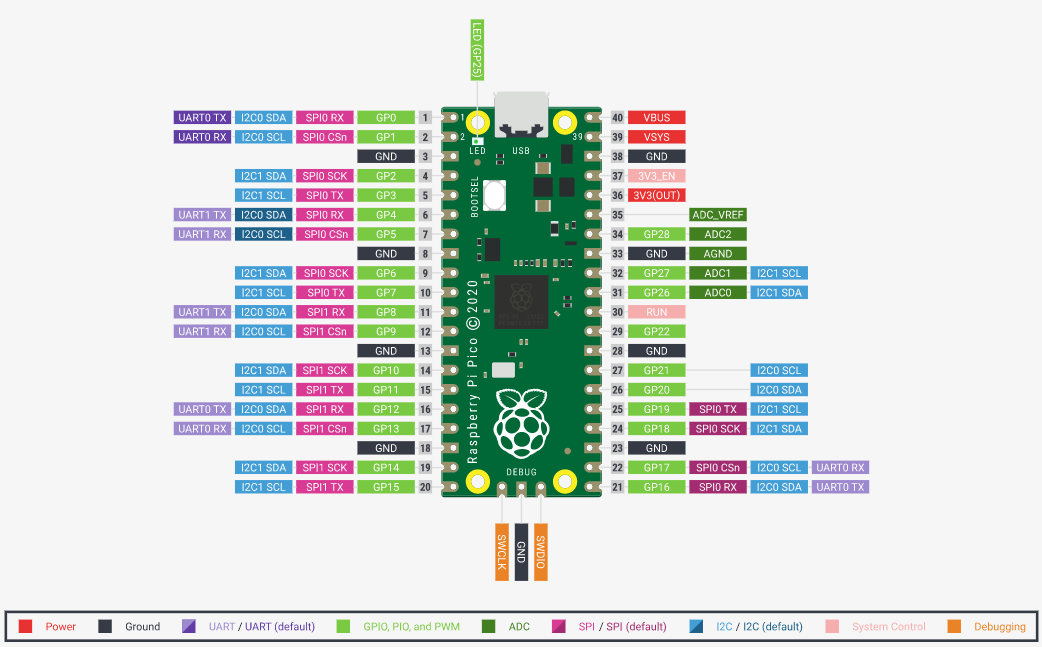
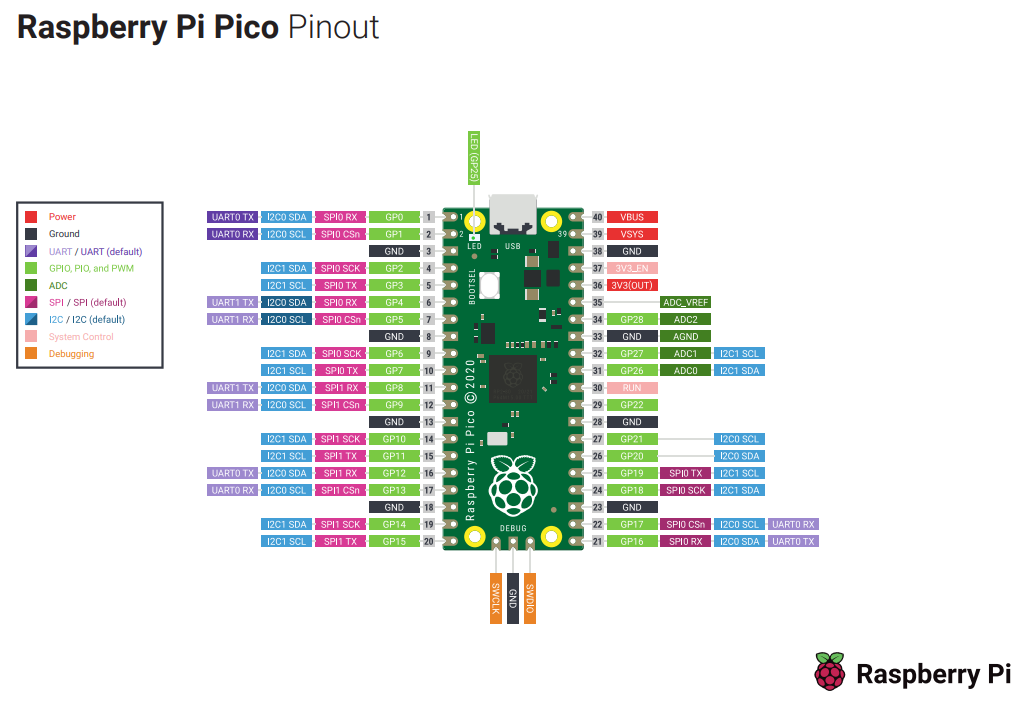
updated docs

diff --git a/README.md b/README.md
@@ -60,12 +60,18 @@ I provided a short BASICS summary, to explain briefly basic functionalities in P
 ## Main project
 ---
 
+<p>
+
 Main sketch:
 ![annoying plant circuit](./docs/main_v1.png)
 
 
 <br>
-TEXT TEXT TEXT TEXT TEXT TEXT TEXT TEXT TEXT TEXT TEXT TEXT TEXT TEXT TEXT TEXT TEXT TEXT TEXT TEXT TEXT TEXT TEXT TEXT TEXT TEXT TEXT TEXT TEXT TEXT TEXT TEXT TEXT TEXT TEXT TEXT TEXT TEXT TEXT TEXT TEXT TEXT TEXT TEXT TEXT TEXT TEXT TEXT TEXT TEXT TEXT TEXT TEXT TEXT TEXT TEXT TEXT TEXT TEXT TEXT TEXT TEXT TEXT TEXT TEXT TEXT TEXT TEXT TEXT
+Section here will follow soon! <br>
+Text text text text text text text text text text text text text text text text text text text text text text text text text text text text text text text text text text text text text text text text text text text text text text text text text text text text text text text text text text <br>
+
+ text text text text text text text text text text text text text text text text text text text text text text text text text text text text text text text text text text text text text text text text text text text text text text text text text text text text text text text text <br>
+
 
 <pre><code>
 code follow soon!
@@ -74,6 +80,10 @@ code follow soon!
 #bla 
 #blabla
 </code></pre>
+
+</p>
+
+<br>
 
 ---
 ## Basics
@@ -226,7 +236,7 @@ For more information look at the Datasheet provided below, but more Important is
 
 <br>
 
-[Pinout source](http://land-boards.com/blwiki/images/thumb/5/56/Raspberry-Pi-Pico-Pinout.jpg/730px-Raspberry-Pi-Pico-Pinout.jpg)
+[Pinout RaspberryPi Pico](./docs/pinoutpico.png)
 
 [Datasheet source](https://datasheets.raspberrypi.com/pico/pico-datasheet.pdf)
 
@@ -235,16 +245,19 @@ For more information look at the Datasheet provided below, but more Important is
 ---
 
 MicroPython is a efficient implementation of the Python 3 programming language it is optimised to run on microcontrollers, like our Pico. It includes a small subset of the Python standard librarys, but its more than sufficient to the needs of this project. <br>
-We will use Thonny to write our python code. Its a beginnerfriendly easy to use IDE perfectly fitting the needs to run all kinds of basic electronic projects.
-
-<br>
+We will use Thonny to write our python code. Its a beginnerfriendly easy to use IDE perfectly fitting the needs to run all kinds of basic electronic projects. <br>
+In order to not further stretch this tutorial you can find tons of good content online such as [this](https://www.programiz.com/python-programming/first-program) explaining the basics of programming in Python. If you not that familiar with programming simply take the codes provided, you may play around with it and learn by doing. <br>
 
 latest version of [Thonny](https://thonny.org/)
+
 <br>
+
 
 ---
 ## Lection 1: Installation & Blink sketch
 ---
+
+A nice and simple tutorial for the following can also be found [here](https://projects.raspberrypi.org/en/projects/getting-started-with-the-pico/0), every step is well written and illustrated. Take a look at it if something went wrong this might help out. <br>
 
 <p>
 
@@ -279,13 +292,14 @@ Now click on save, there should now apper a window asking you where u want to sa
 
 ![save on Pico](./docs/thonny3.png)
 
-When you hit the **Run** button the programm should start to execute on the Pico, if you want to stop the code hit the red **STOP**.
-
 ![Run sketch](./docs/thonny4.png)
+
+When you hit the **Run** button the programm should start to execute on the Pico, if you want to stop the code hit the red **STOP**. The Led should blink from now until you stop the code from executing. But the code wont execute as soon as the board is powered on in order to achieve that see bellow. <br>
 
 <br>
 
-A better way to implement something similar is shown in blink.py from the code folder. Load it or copy the code manually into your ThonnyIDE.
+**Additional:** <br>
+A better and maybee more 'pythonic' way to implement something similar is shown in blink.py from the code folder. Load it or copy the code manually into your ThonnyIDE.
 
 <pre><code>
 #import existing code
@@ -306,9 +320,13 @@ def tick(timer):
 tim.init(freq=1, mode=Timer.PERIODIC, callback=tick)
 </code></pre>
 
-When you save the code to your Pico this time give the file the name **main.py** , now the Pico will execute the code everytime it is powered on automatically. You should still be able to controll it by the **STOP** and **RUN** button while pluged to your PC.
+When you save the code to your Pico this time give the file the name **main.py** , now the Pico will execute the code everytime it is powered on automatically. You should still be able to controll it by the **STOP** and **RUN** button while pluged to your PC. <br>
+
+
 
 </p>
+
+<br>
 
 ---
 ## Lection 2: Flip flop
@@ -317,7 +335,7 @@ When you save the code to your Pico this time give the file the name **main.py**
 <p>
 
 **Theory:** <br>
-A Flip-flop is a bistable circuit saving a electronic state. It's fundamental circuit to store digital information. Even in games like Minecraft you can build such a thing pretty quickly. <br>
+A Flip-flop is a bistable circuit saving a electronic state. It's fundamental circuit to store digital information. In games like Minecraft you can build such a thing pretty quickly. <br>
 In the game you can build an inverter out of a redstone wire and a redstone torch attached to the block. When we connect two inverters this will form a Bistable state. Switching one of the buttons will cause the system to flip side and will stay that way untill the other button is pressed. <br>
 
 ![Minecraft FF](./docs/mc_ff.png)
@@ -331,8 +349,6 @@ In the picture below the raw scematic of a real world Flip-flop is shown. The ba
 **Circuit:** <br>
 Now we gona build a small circuit to test this functionality. Our real-world implementatin of the FF reacts when one of the inputs is pulled low. So we simulate the press of a button by simply attatching lose wires, which we can connect manually to simulate a button press. In order to flip we have to pick the correct wire, either pink or violet and hold it onto the ground rail (black). <br> This could theoretically also achieved with our Pico. When we connect those two wires to output pins and set them to HIGH state. As soon as we pull the correct one LOW the FF should switch and the other LED should light up. <br>
 
-**Important** If you play around and try to connect the circuit with the Pico keep in mind using the 3.3V Output. Otherwise you might damage your controller when applying 5V to its input pins. Therefor lookup the pinout diagram of the pico. Either from internet search or take the link from the above section on of the Pico. (It's the 5th pin on the same side as the VBUS Pin, VBUS is 1st)
-
 <br>
 
 **Tipps&Info:**
@@ -345,7 +361,7 @@ protection Resistor = Voltage drop over R / I on LED
 #Voltage drop over R can be obtained by subtracting forward drop Voltage of the Diode itself from source Voltage 
 </code></pre>
 
-2. **Diode orientation:** Orientation matters, because when you put them in wrong direction they will simply stop any flow of current try to pass through them. The Anode (+) side needs to be at the side with the higher potential (Voltage) and the Kathode on the GND side. Usually the **longer foot** is the Anode. The position of the protection Resistor doesn't matter.
+2. **LED orientation:** Orientation matters, because when you put them in wrong direction they will simply stop any flow of current try to pass through them. The Anode (+) side needs to be at the side with the higher potential (Voltage) and the Kathode on the GND side. Usually the **longer foot** is the Anode. The position of the protection Resistor doesn't matter.
 
 3. **Breadboard:** On the breadboard the side rails marked with red and blue stripes are connected on the horizontal axis. This color sceme is used as red for positive Voltage level (3.3V in this case) and blue as ground (GND) potential. <br>
 The inside of the breadboard is connected vertical a-e and f-j. You can see this in the green highlighted holes which forming a path in vertical direction for every connection. <br>
@@ -354,14 +370,54 @@ The inside of the breadboard is connected vertical a-e and f-j. You can see this
 
 ![Circuit FF](./docs/lec2.png)
 
+<br>
+
+**Important** If you play around and try to connect the circuit with the Pico keep in mind using the 3.3V Output. Otherwise you might damage your controller when applying 5V to its input pins. Therefor lookup the [pinout](./docs/pinoutpico.png) diagram of the pico. Either from internet search or take the link from the above section on of the Pico. (It's the 5th pin on the same side as the VBUS Pin, VBUS is 1st)
+
+<br>
+<pre><code>
+#code may look like
+from machine import Pin
+import time
+
+#declare pins & variables
+state=True
+s = Pin(20, Pin.OUT)  #initialize pin 20 and set it on output
+r = Pin(21, Pin.OUT)  #initialize pin 21 and set it on output
+led = Pin(25, Pin.OUT)
+
+s.value(1)
+r.value(1)
+led.value(0) #output low (GND)
+
+#s while loop will loop as long as the condition (True in this cause) will get false (wont happen in this case)
+while True:
+    s.value(not state)
+    r.value(state)
+    time.sleep_ms(1) #sleeps a millisecond
+    s.value(1)
+    r.value(1)
+    #this is an if statement simply it triggers the if-part when state is true or hops in else-part otherwise
+    if state:
+        state=False #if true set false
+    else:
+        state=True #else set true
+    time.sleep(5) #sleep 5 sec
+    #hopps to the top of the while loop
+
+</code></pre>
+
 </p>
+
+<br>
 
 ---
 ## Lection 3: DFPlayer-mini
 ---
 For more detailed information on the module visit [here](https://wiki.dfrobot.com/DFPlayer_Mini_SKU_DFR0299). I already provided some information about it at the the Basics part, it is not mandatory to know all the details. <br>
 
-Now we gona test the function of the DFPlayer module. Build your circuit on the breadboard according the scematic. 
+Now we gona test the function of the DFPlayer module. Build your circuit on the breadboard according the scematic. <br>
+For your information the module in red at the top of the sketch is a level shifter module. As mentioned above if we apply 5V to the GPIO (general purpose input output) Pins of the Pico we risk damaging the part. This is a problem because we connect the DFPlayer to 5V VCC, it will output HIGH signals at 5V level. With this module we apply the Higher 5V voltage level (red wire) at **'HV'** and 3.3V (orange wire) to **'LV'**. Then module will automatically shift any binary (0 or 1) to its coresponding sides voltage level. <br>
 
 ![Circuit DFPlayer](./docs/lec3.png)
 
@@ -376,4 +432,4 @@ Changing the code is pretty simple i'll provide an example for each function of 
 code here follow soon!
 </code></pre>
 
-It is also possible to use this device manually. Take a loose wire connected to GND and tipp shortly on the **IO_2** Pin to select the next track. This will play the whole song. When holding these pins like its shown above in the Basic section, we can adjust the Volume. Therefor look at the Table there should be given a short description in the "Notes" of each pin how to controll it manually.
+It is also possible to use this device manually. Take a loose wire (grey in the sketch) connected to GND and tipp shortly on the **IO_2** Pin to select the next track. The corresponding Pin you can find [above](#df-mini-player). This will play the whole song. When holding this pin we can adjust the Volume, therefor look up the functions from the table in the "Notes". When working with the loose wire avoid connecting it directly to VCC, this will short the circuit. To avoid this problem you might add a resistor of any value above 1k to this wire in series.
